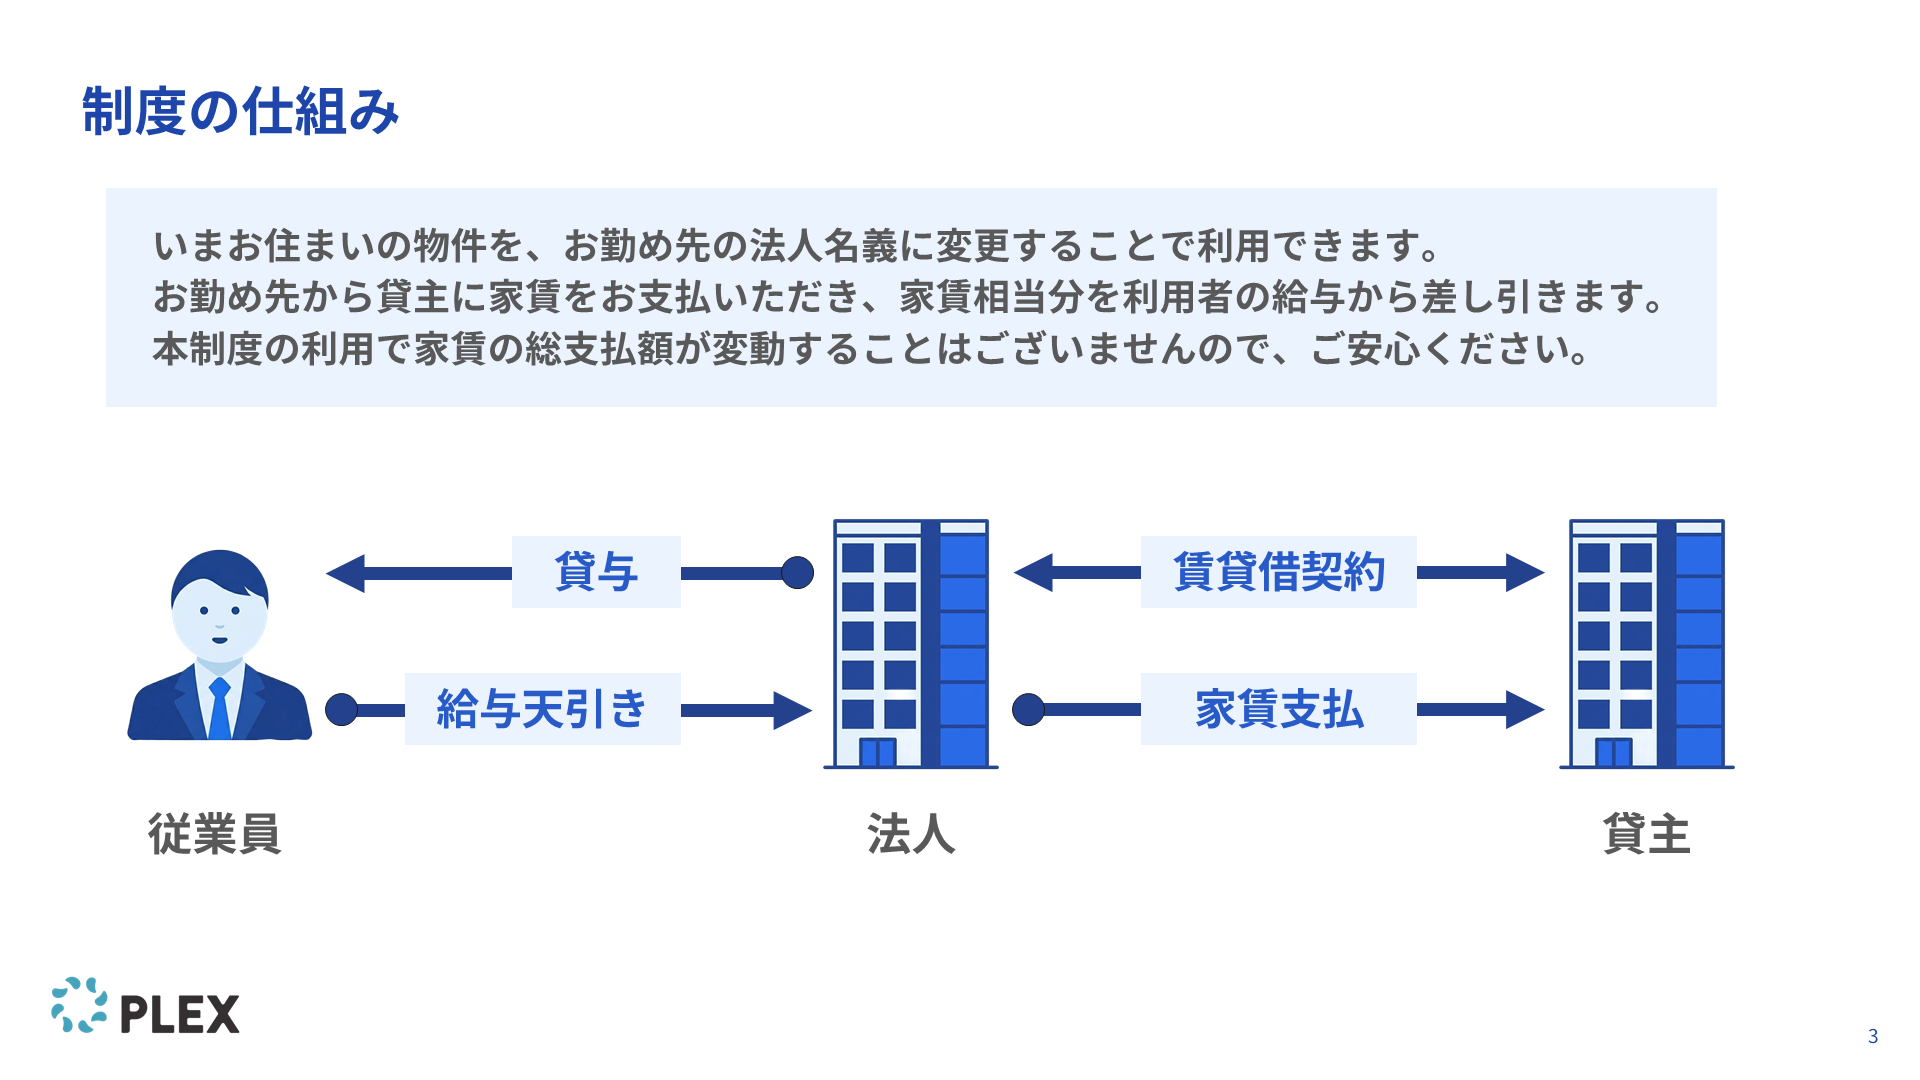
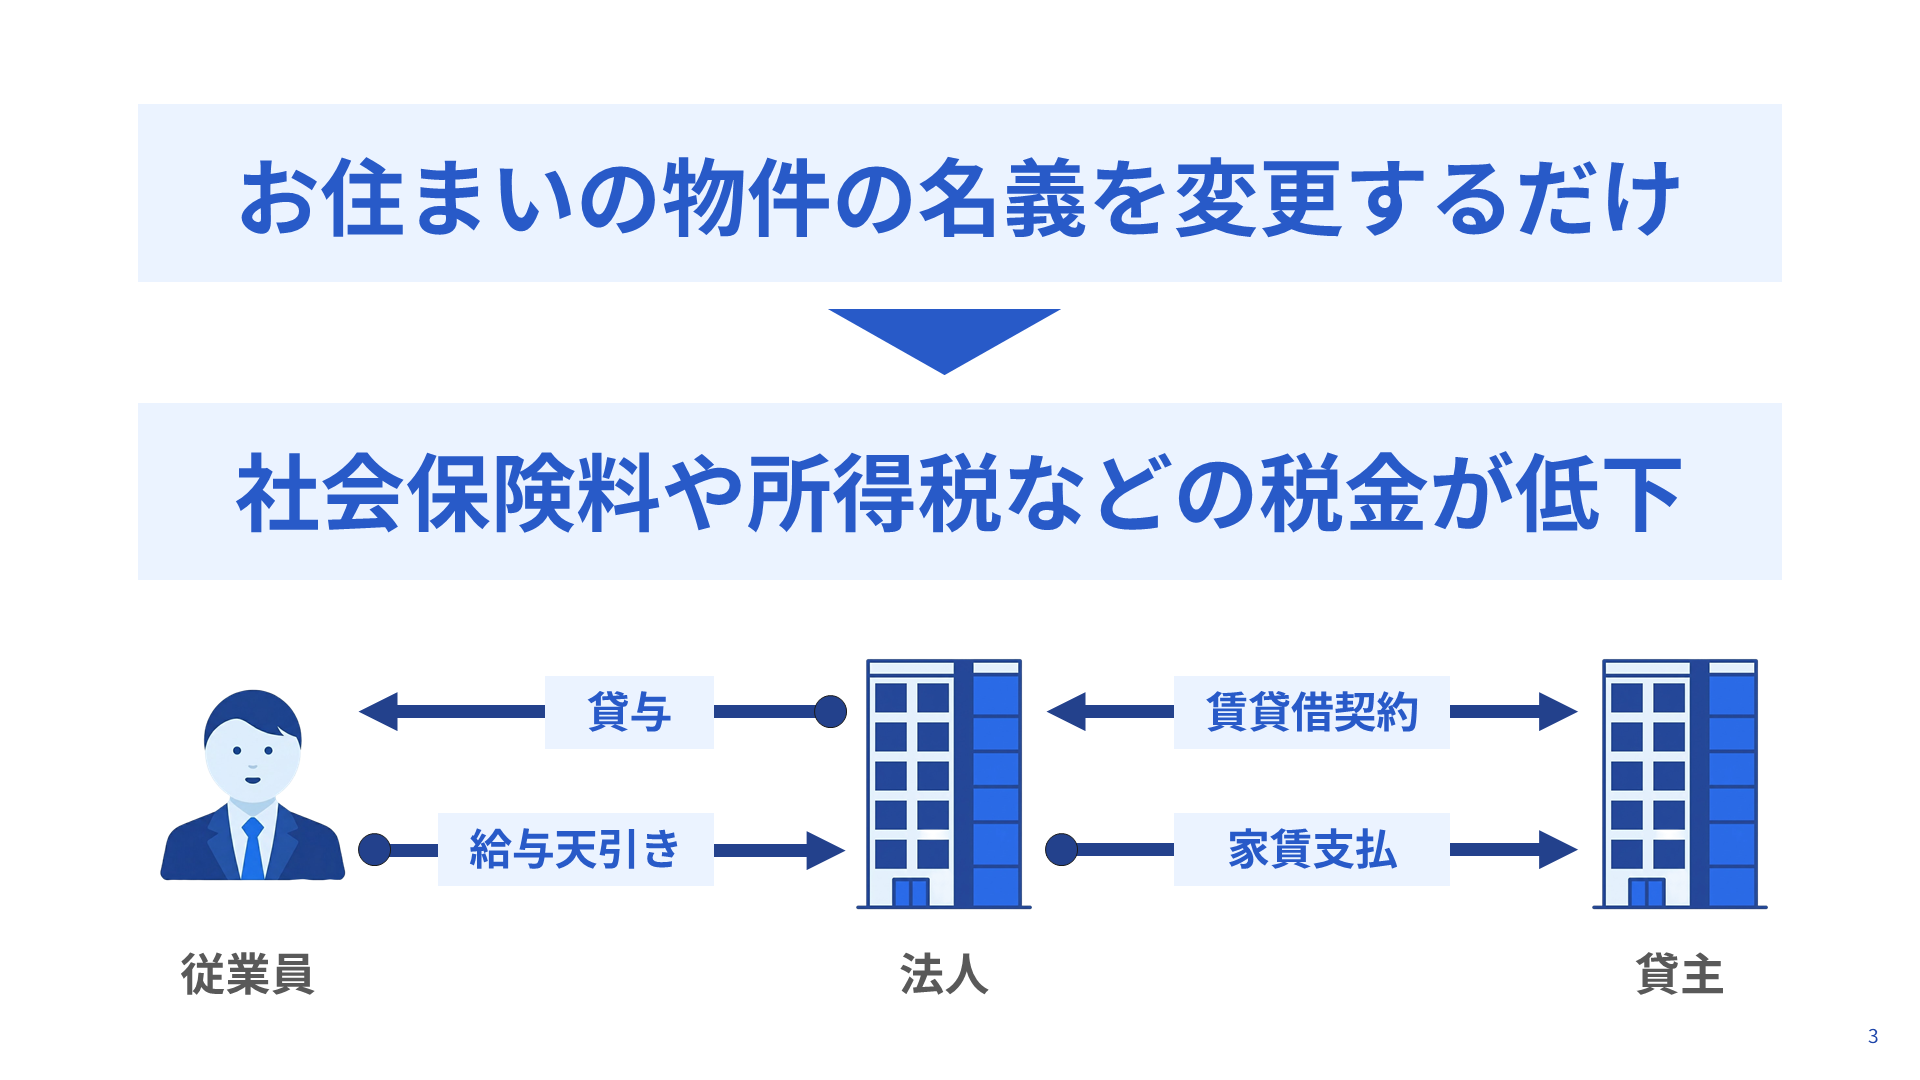
Replace employee page slides with new 4-slide deck
説明スライドを17枚から新しい4枚（シミュレーションページ_説明スライド.pptx）に差し替え

diff --git a/employee/index.html b/employee/index.html
@@ -988,7 +988,7 @@
     </div>
   </section>
 
-  <!-- 4. Slides (image carousel: 17 slides from PPTX) -->
+  <!-- 4. Slides (image carousel: 4 slides from PPTX) -->
   <section class="section slides-section section-offscreen">
     <div class="inner">
       <div class="section-label">しくみをざっくり理解</div>
@@ -996,23 +996,10 @@
       <p class="section-desc">スライドを読むだけで制度の概要がわかります。左右にスワイプまたはボタンで切り替えてください。</p>
       <div class="slides-wrapper fade-in">
         <div class="slides-track" id="slides-track">
-          <div class="slide-img-wrap"><img src="slides/slide_01.png" alt="福利厚生社宅制度" loading="eager" fetchpriority="high" width="1920" height="1080"><span class="slide-counter">1 / 17</span></div>
-          <div class="slide-img-wrap"><img src="slides/slide_02.png" alt="制度の対象者" loading="lazy" width="1920" height="1080"><span class="slide-counter">2 / 17</span></div>
-          <div class="slide-img-wrap"><img src="slides/slide_03.png" alt="制度の仕組み" loading="lazy" width="1920" height="1080"><span class="slide-counter">3 / 17</span></div>
-          <div class="slide-img-wrap"><img src="slides/slide_04.png" alt="給料組み換えの仕組み" loading="lazy" width="1920" height="1080"><span class="slide-counter">4 / 17</span></div>
-          <div class="slide-img-wrap"><img src="slides/slide_05.png" alt="手取りアップの例" loading="lazy" width="1920" height="1080"><span class="slide-counter">5 / 17</span></div>
-          <div class="slide-img-wrap"><img src="slides/slide_06.png" alt="経済的メリットの概算例" loading="lazy" width="1920" height="1080"><span class="slide-counter">6 / 17</span></div>
-          <div class="slide-img-wrap"><img src="slides/slide_07.png" alt="減額反映のタイミング" loading="lazy" width="1920" height="1080"><span class="slide-counter">7 / 17</span></div>
-          <div class="slide-img-wrap"><img src="slides/slide_08.png" alt="給与明細のイメージ" loading="lazy" width="1920" height="1080"><span class="slide-counter">8 / 17</span></div>
-          <div class="slide-img-wrap"><img src="slides/slide_09.png" alt="その他メリット" loading="lazy" width="1920" height="1080"><span class="slide-counter">9 / 17</span></div>
-          <div class="slide-img-wrap"><img src="slides/slide_10.png" alt="デメリット" loading="lazy" width="1920" height="1080"><span class="slide-counter">10 / 17</span></div>
-          <div class="slide-img-wrap"><img src="slides/slide_11.png" alt="ご利用方法" loading="lazy" width="1920" height="1080"><span class="slide-counter">11 / 17</span></div>
-          <div class="slide-img-wrap"><img src="slides/slide_12.png" alt="利用開始までの流れ" loading="lazy" width="1920" height="1080"><span class="slide-counter">12 / 17</span></div>
-          <div class="slide-img-wrap"><img src="slides/slide_13.png" alt="Step1 利用申請" loading="lazy" width="1920" height="1080"><span class="slide-counter">13 / 17</span></div>
-          <div class="slide-img-wrap"><img src="slides/slide_14.png" alt="Step2 必要書類の提出" loading="lazy" width="1920" height="1080"><span class="slide-counter">14 / 17</span></div>
-          <div class="slide-img-wrap"><img src="slides/slide_15.png" alt="Step3 条件確認・Step4 契約手続き" loading="lazy" width="1920" height="1080"><span class="slide-counter">15 / 17</span></div>
-          <div class="slide-img-wrap"><img src="slides/slide_16.png" alt="解約の方法" loading="lazy" width="1920" height="1080"><span class="slide-counter">16 / 17</span></div>
-          <div class="slide-img-wrap"><img src="slides/slide_17.png" alt="お問い合わせ" loading="lazy" width="1920" height="1080"><span class="slide-counter">17 / 17</span></div>
+          <div class="slide-img-wrap"><img src="slides/slide_01.png" alt="福利厚生社宅の紹介" loading="eager" fetchpriority="high" width="1920" height="1080"><span class="slide-counter">1 / 4</span></div>
+          <div class="slide-img-wrap"><img src="slides/slide_02.png" alt="年間15〜50万円の手取りアップ" loading="lazy" width="1920" height="1080"><span class="slide-counter">2 / 4</span></div>
+          <div class="slide-img-wrap"><img src="slides/slide_03.png" alt="名義変更で社会保険料・税金が低下する仕組み" loading="lazy" width="1920" height="1080"><span class="slide-counter">3 / 4</span></div>
+          <div class="slide-img-wrap"><img src="slides/slide_04.png" alt="利用申請の3ステップ" loading="lazy" width="1920" height="1080"><span class="slide-counter">4 / 4</span></div>
         </div>
         <div class="slides-nav">
           <button class="slide-btn" id="slide-prev" aria-label="前のスライド">&#8592;</button>
@@ -1492,8 +1479,8 @@ function runCalculation() {
   document.getElementById('sim-results').scrollIntoView({ behavior: 'smooth', block: 'start' });
 }
 
-// ===== Slide carousel (17 images) =====
-var TOTAL_SLIDES = 17;
+// ===== Slide carousel (4 images) =====
+var TOTAL_SLIDES = 4;
 var currentSlide = 0;
 var track = document.getElementById('slides-track');
 var dotsArea = document.getElementById('slide-dots');
